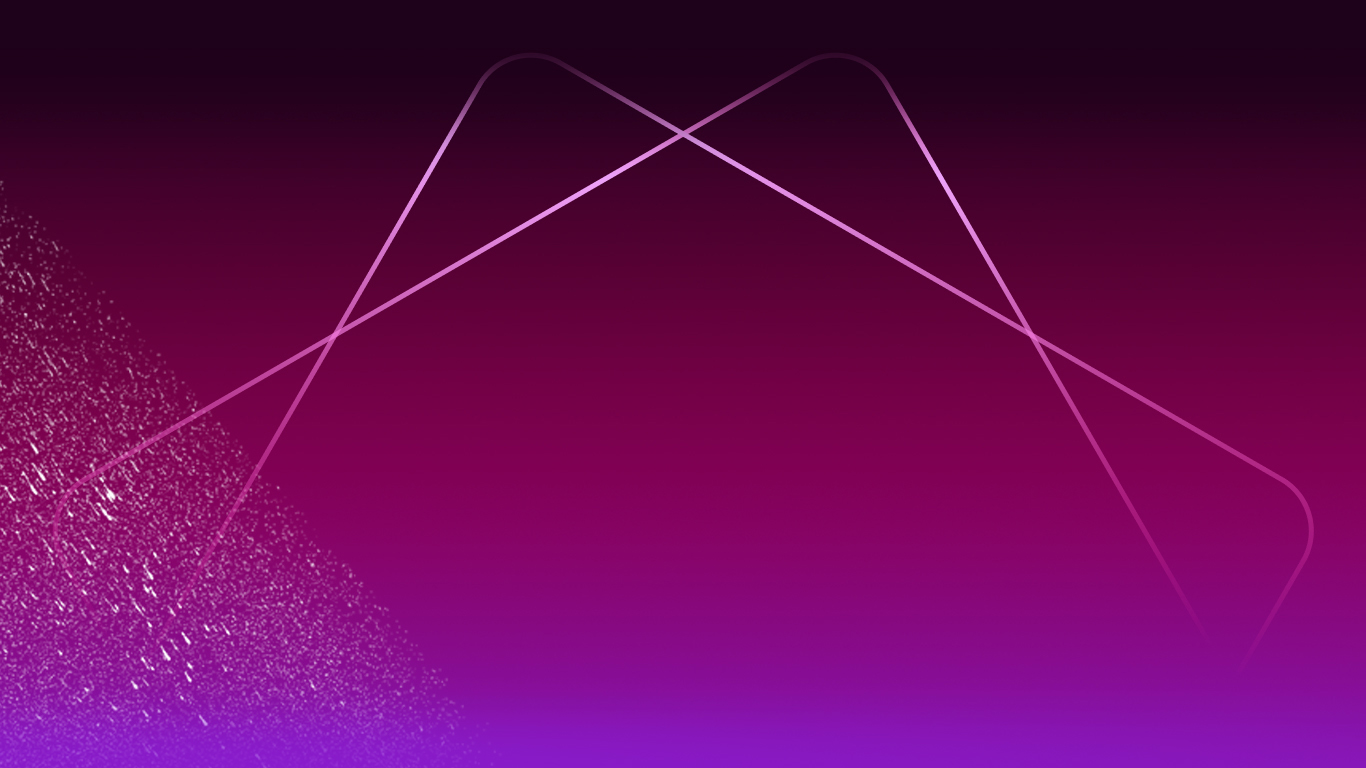
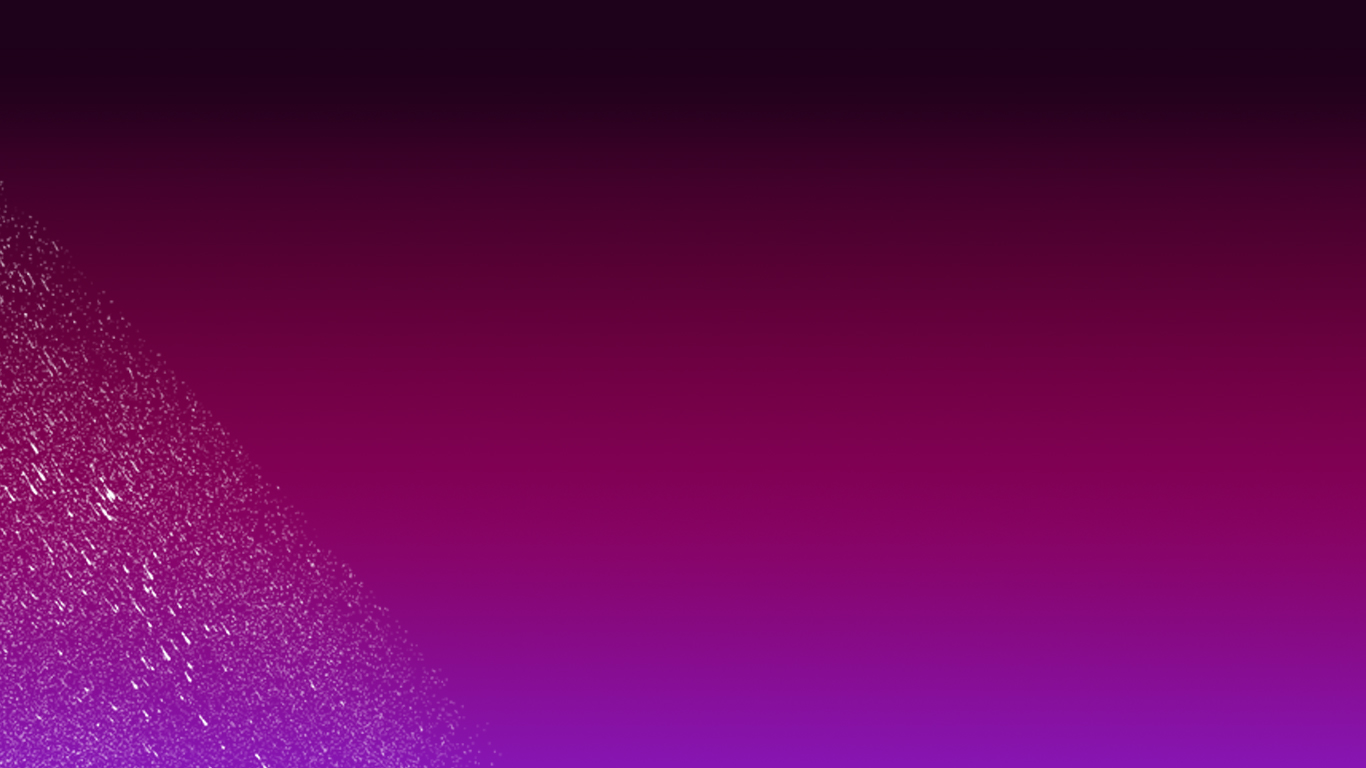
check

diff --git a/index.html b/index.html
@@ -374,6 +374,26 @@
     </section>
 <section class="about-img" id="about">
 <div class="container-fluid">
+ <div class="svg-about d-none d-lg-block">
+    <svg width="1262" height="665" viewBox="0 0 1262 665" fill="none" xmlns="http://www.w3.org/2000/svg">
+        <rect x="-18.5849" y="457.127" width="951.424" height="951.424" rx="59.5" transform="rotate(-30 -18.5849 457.127)" stroke="url(#paint0_linear_801_14)" stroke-width="5"/>
+        <rect x="-18.5849" y="805.373" width="951.424" height="951.424" rx="59.5" transform="rotate(-60 -18.5849 805.373)" stroke="url(#paint1_linear_801_14)" stroke-width="5"/>
+        <defs>
+        <linearGradient id="paint0_linear_801_14" x1="758.621" y1="410.138" x2="473.121" y2="904.638" gradientUnits="userSpaceOnUse">
+        <stop stop-color="#FF68D5"/>
+        <stop offset="0.171875" stop-color="#F3A7FF"/>
+        <stop offset="1" stop-color="#FF33AD" stop-opacity="0"/>
+        </linearGradient>
+        <linearGradient id="paint1_linear_801_14" x1="1021.82" y1="957.659" x2="456.304" y2="1284.16" gradientUnits="userSpaceOnUse">
+        <stop stop-color="#FF68D5"/>
+        <stop offset="0.171875" stop-color="#F3A7FF"/>
+        <stop offset="1" stop-color="#FF33AD" stop-opacity="0"/>
+        </linearGradient>
+        </defs>
+        </svg>
+        
+
+ </div>
     <div class="row">
         <div class="col-lg-6 col-12 text-left">
             <img src="images/about.svg" class="about-title" alt="" srcset="">

diff --git a/css/styles.css b/css/styles.css
@@ -2436,3 +2436,9 @@ font-weight: 900;}
     display: block;
     position: absolute;
 }
+.svg-about{
+	text-align: center;
+    width: 100%;
+    position: absolute;
+    padding-top: 2%;
+}
